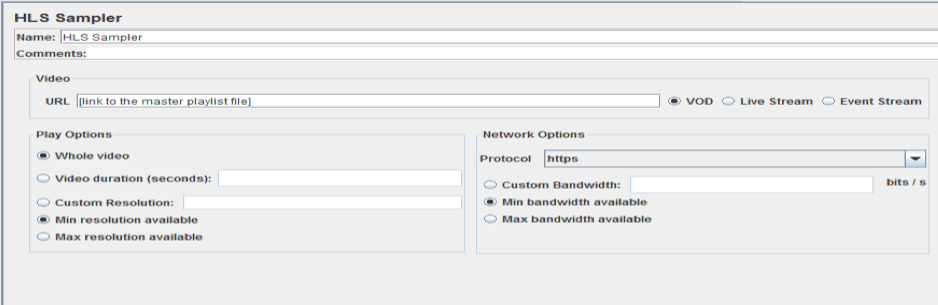
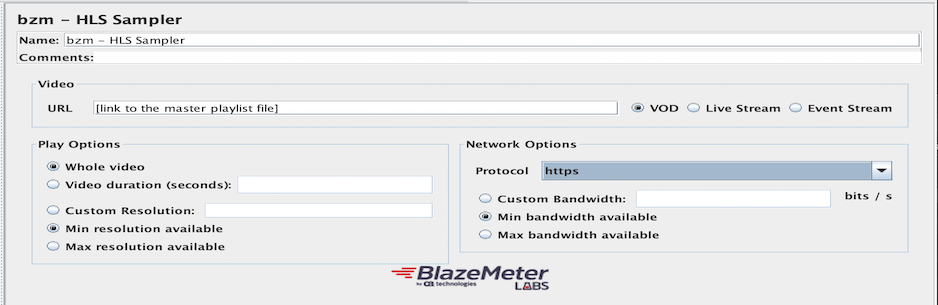
Readme updated and images have been changed
Images have been changed to fit with the new look and feel of HLSPlugin

Changed region(s): [[0.0, 0.0, 1.0, 1.0]]

diff --git a/README.md b/README.md
@@ -24,7 +24,7 @@ Here is what the HLS Sampler looks like:
 
 - Install the HLS plugin from the Plugins Manager
 - Create a Thread Group.
-- Add the HLS Sampler Add -> Sampler -> HLS Sampler
+- Add the HLS Sampler Add -> Sampler -> bzm - HLS Sampler
 
 ![](docs/HLSAddSampler.png)
 
